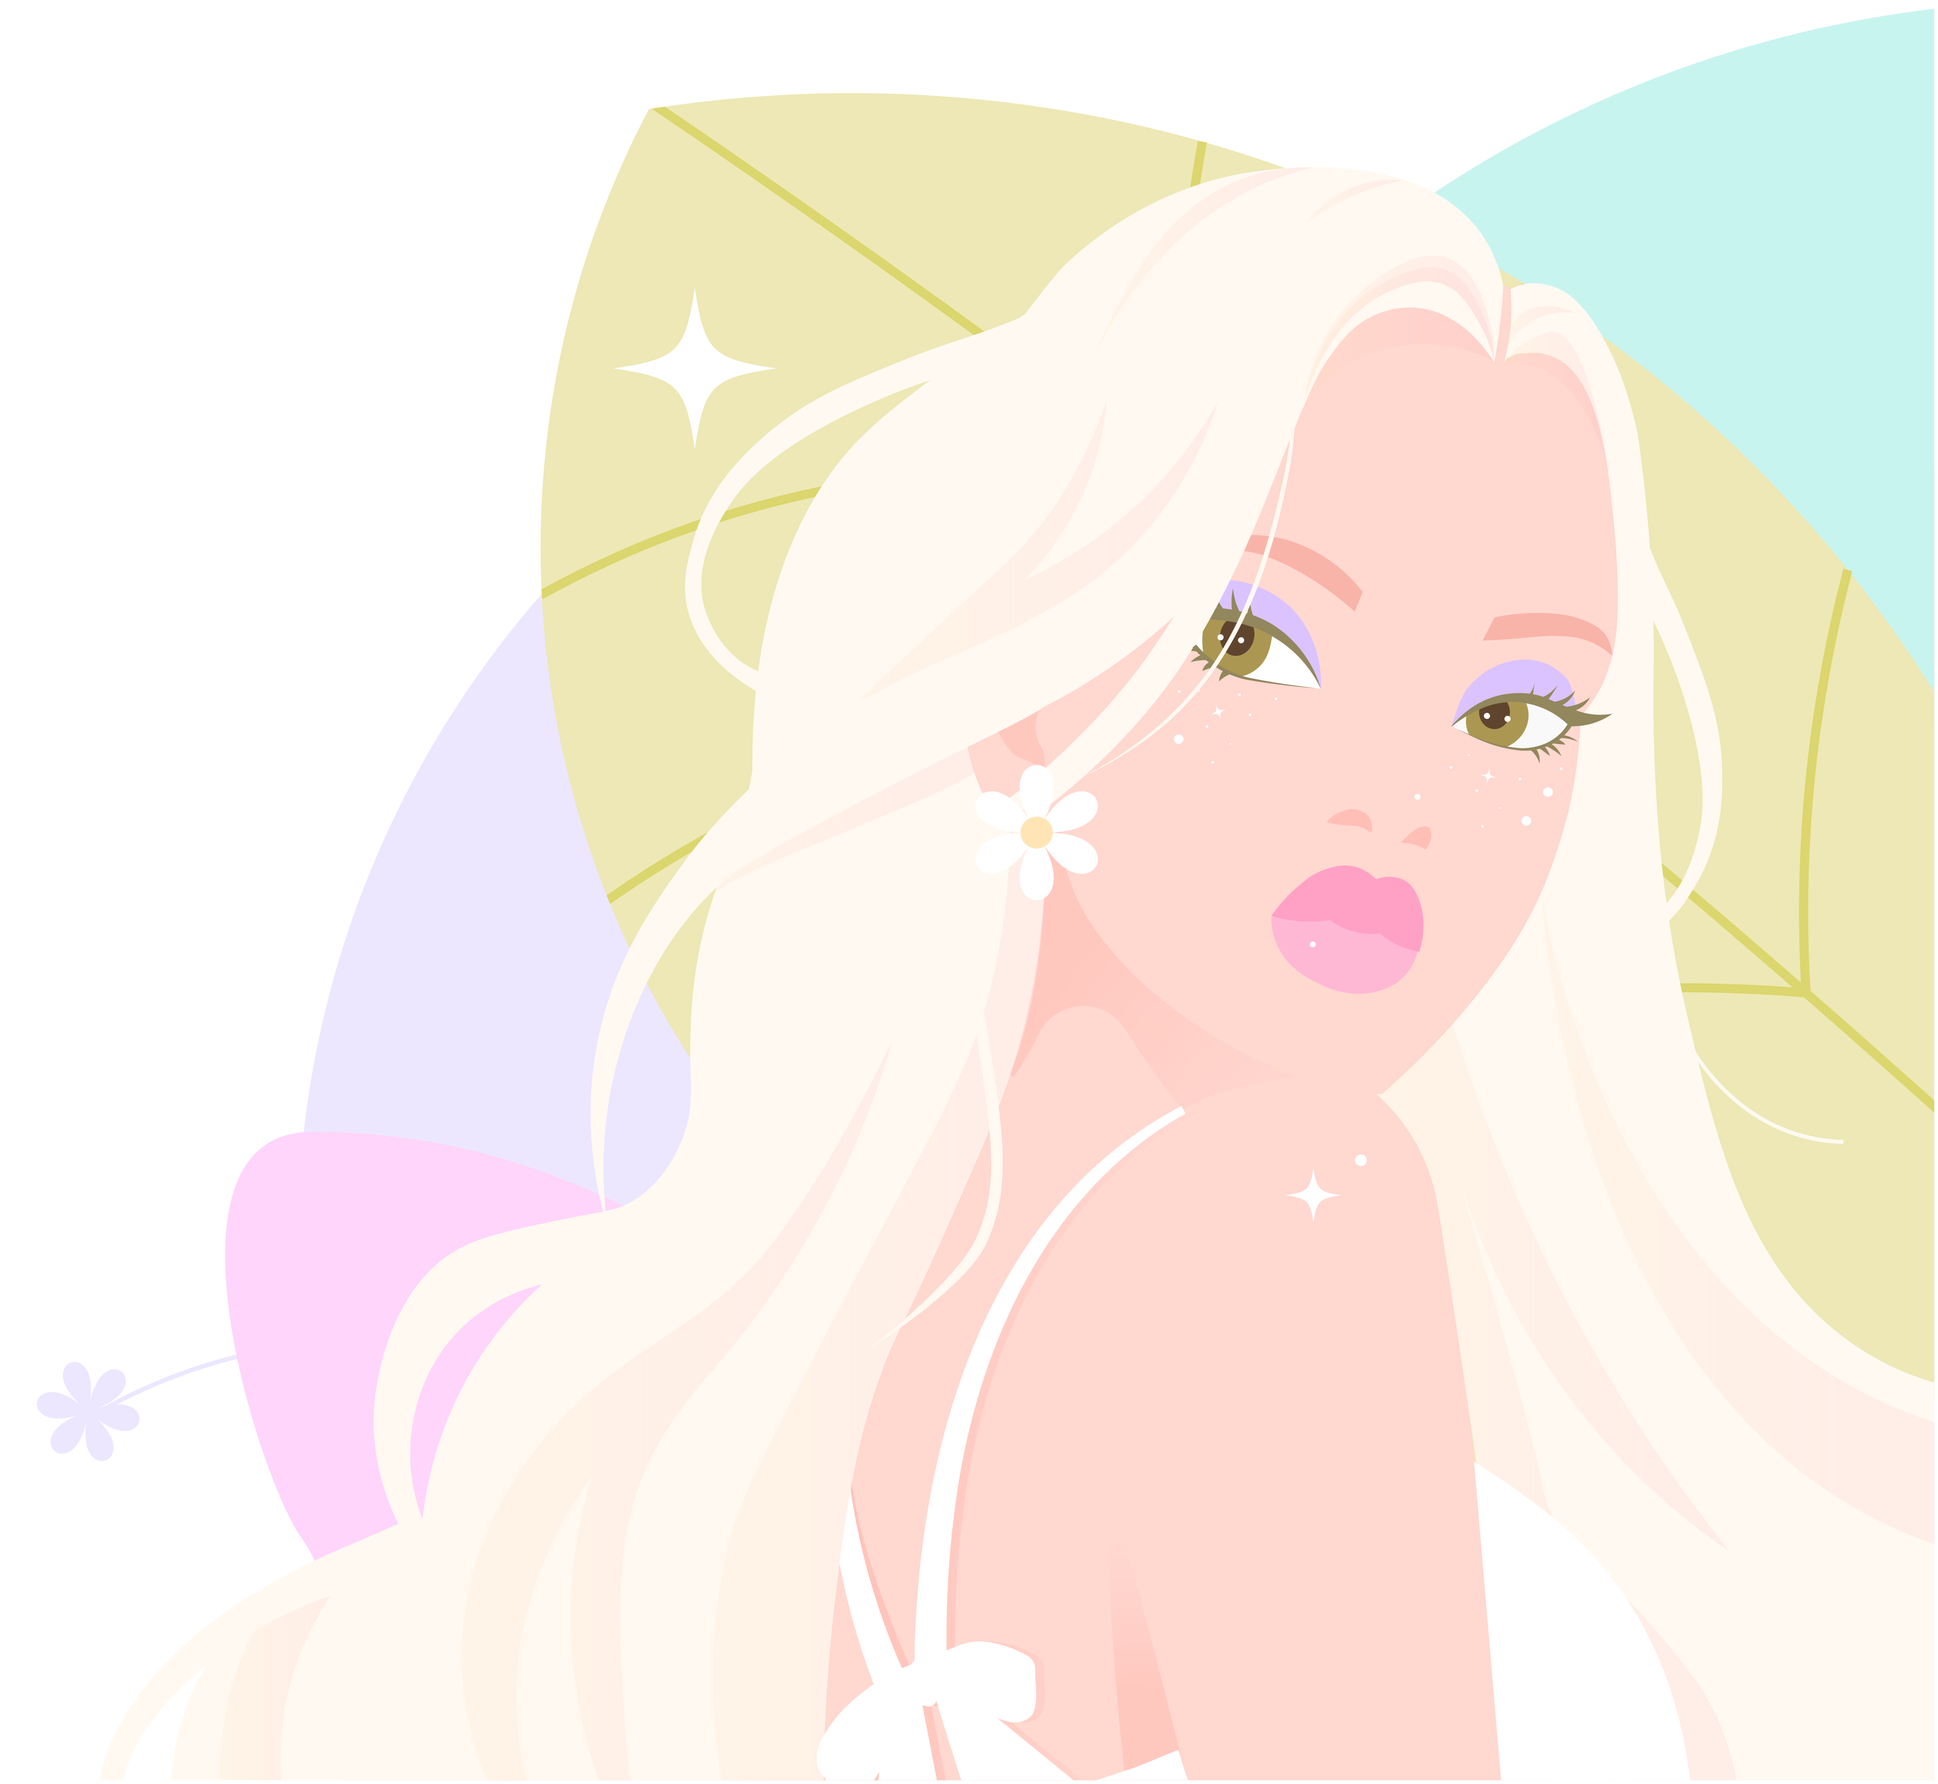
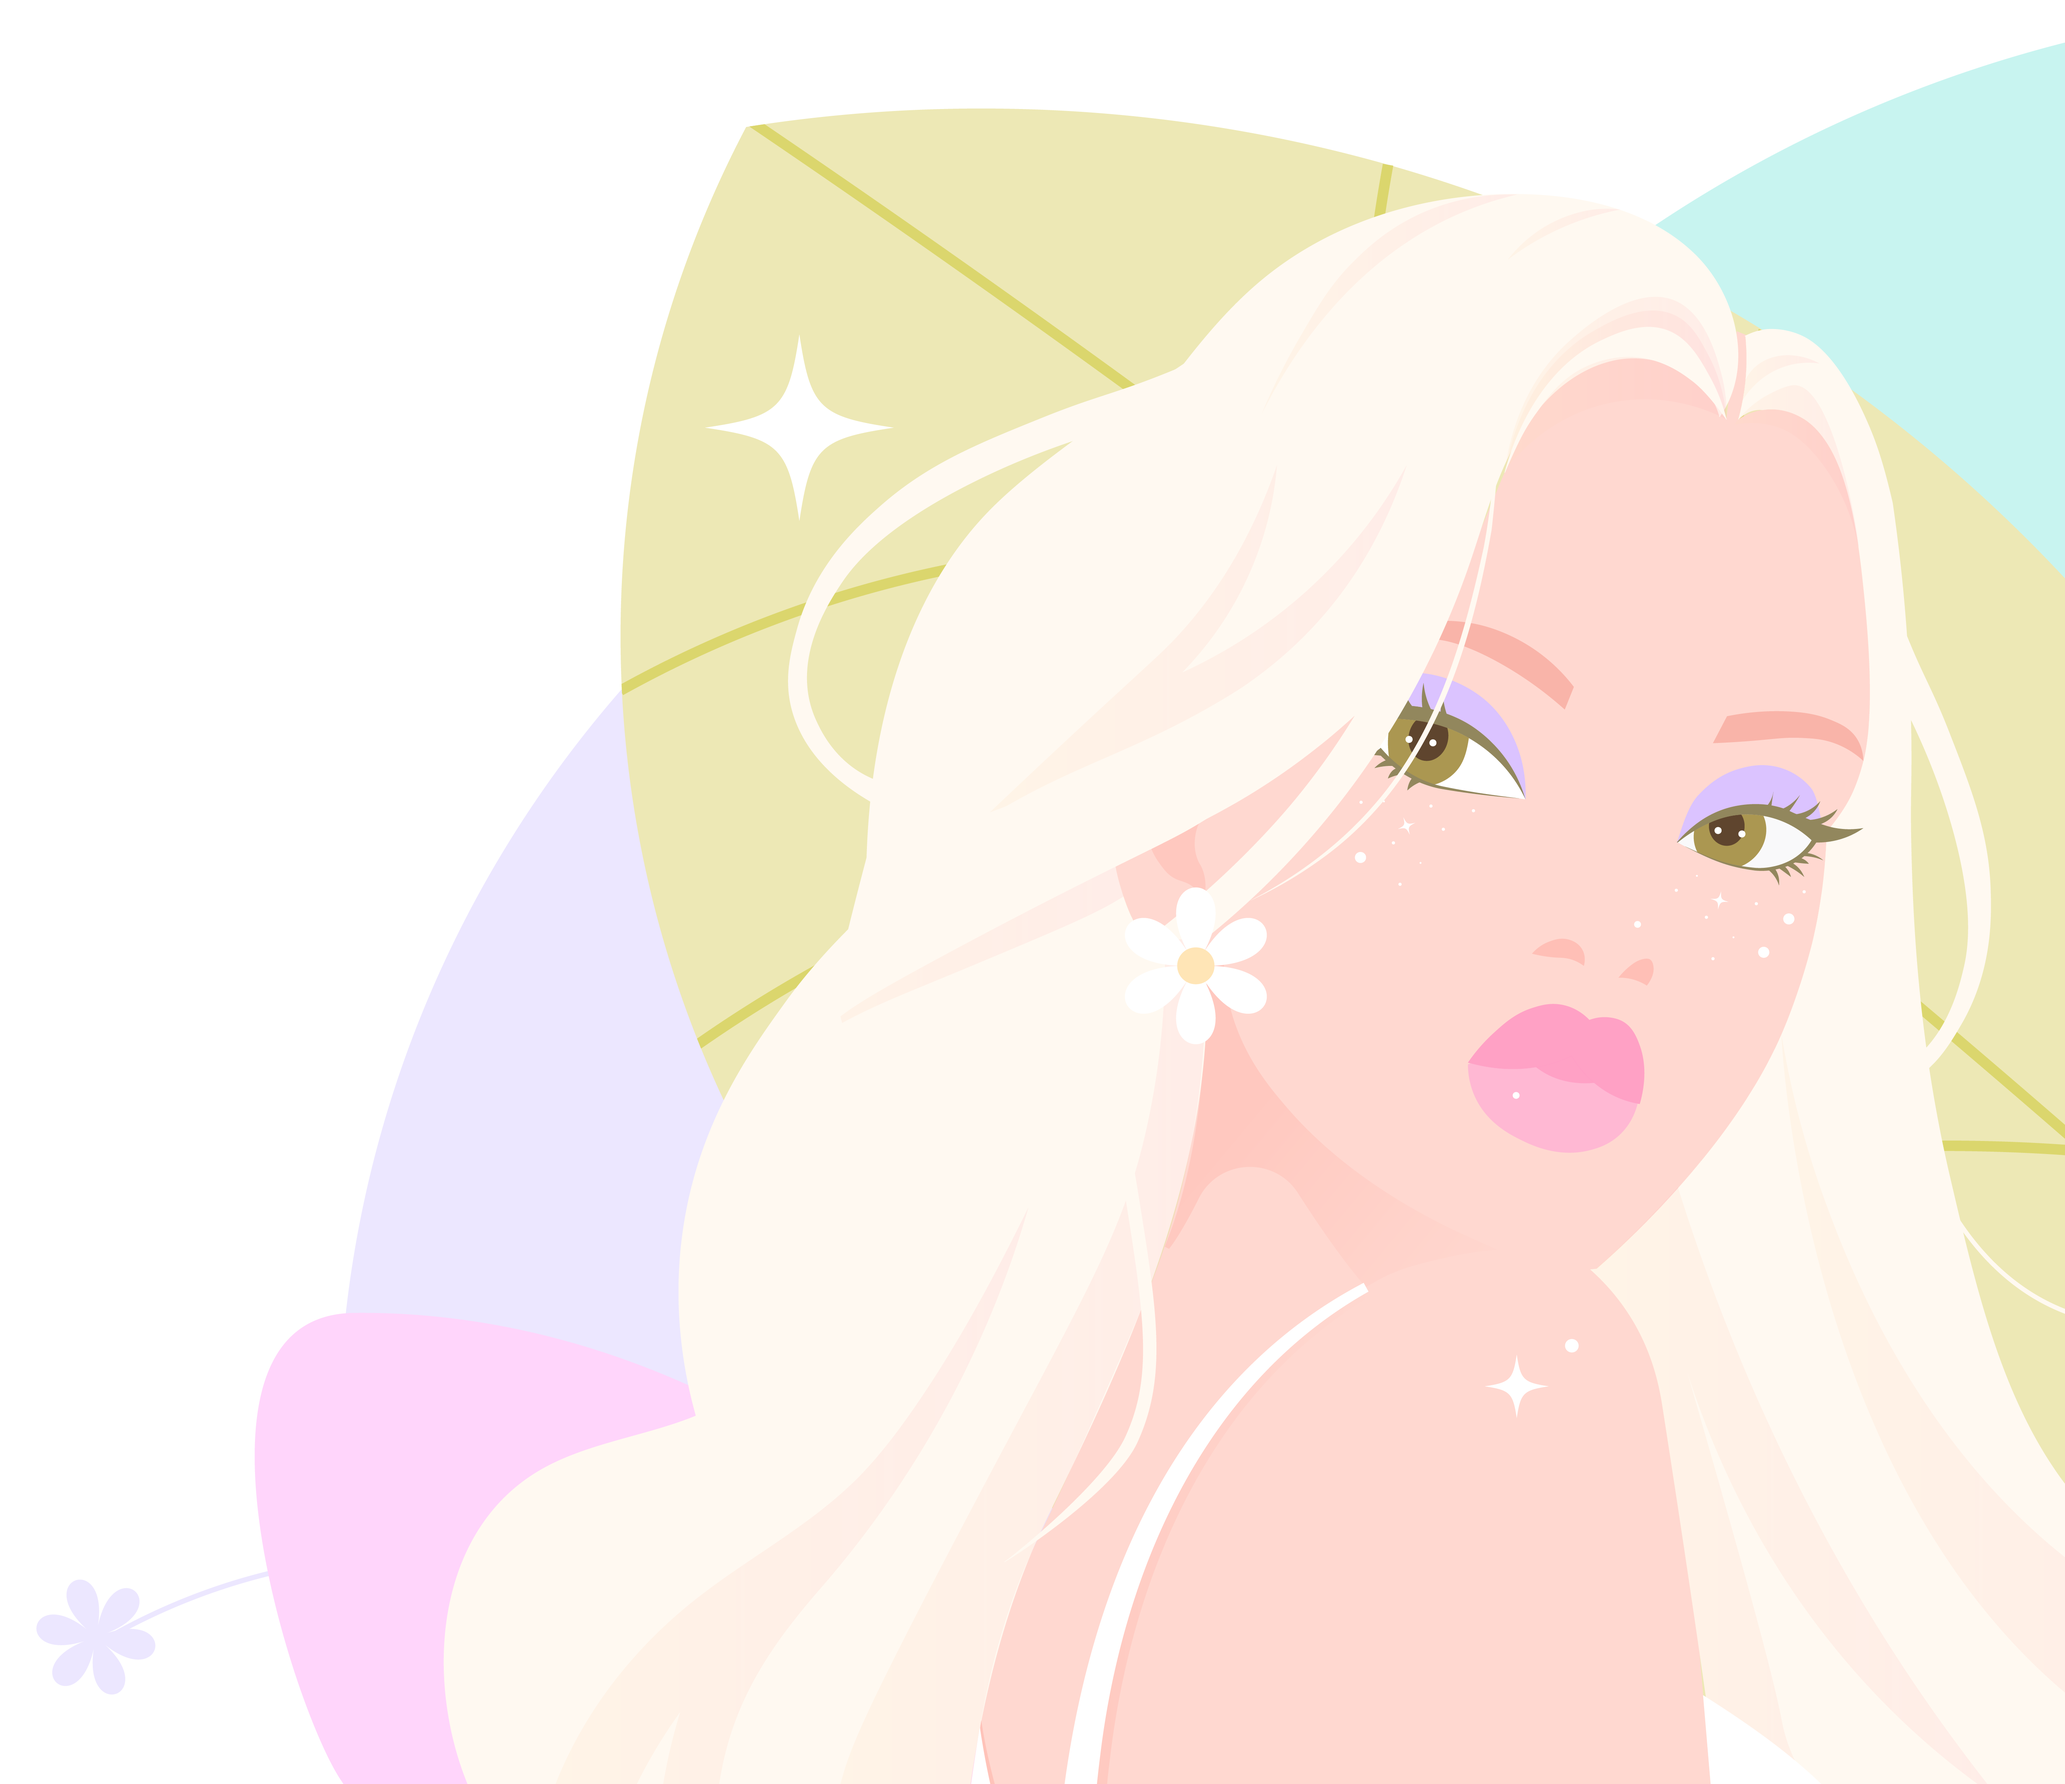
Update

diff --git a/styles.css b/styles.css
@@ -125,7 +125,7 @@ main {
     display: flex;
     align-items: center;
     padding: 30px 0 80px 100px;
-    height:90vh;
+    height:80vh;
     margin-bottom:0px;
 }
 
